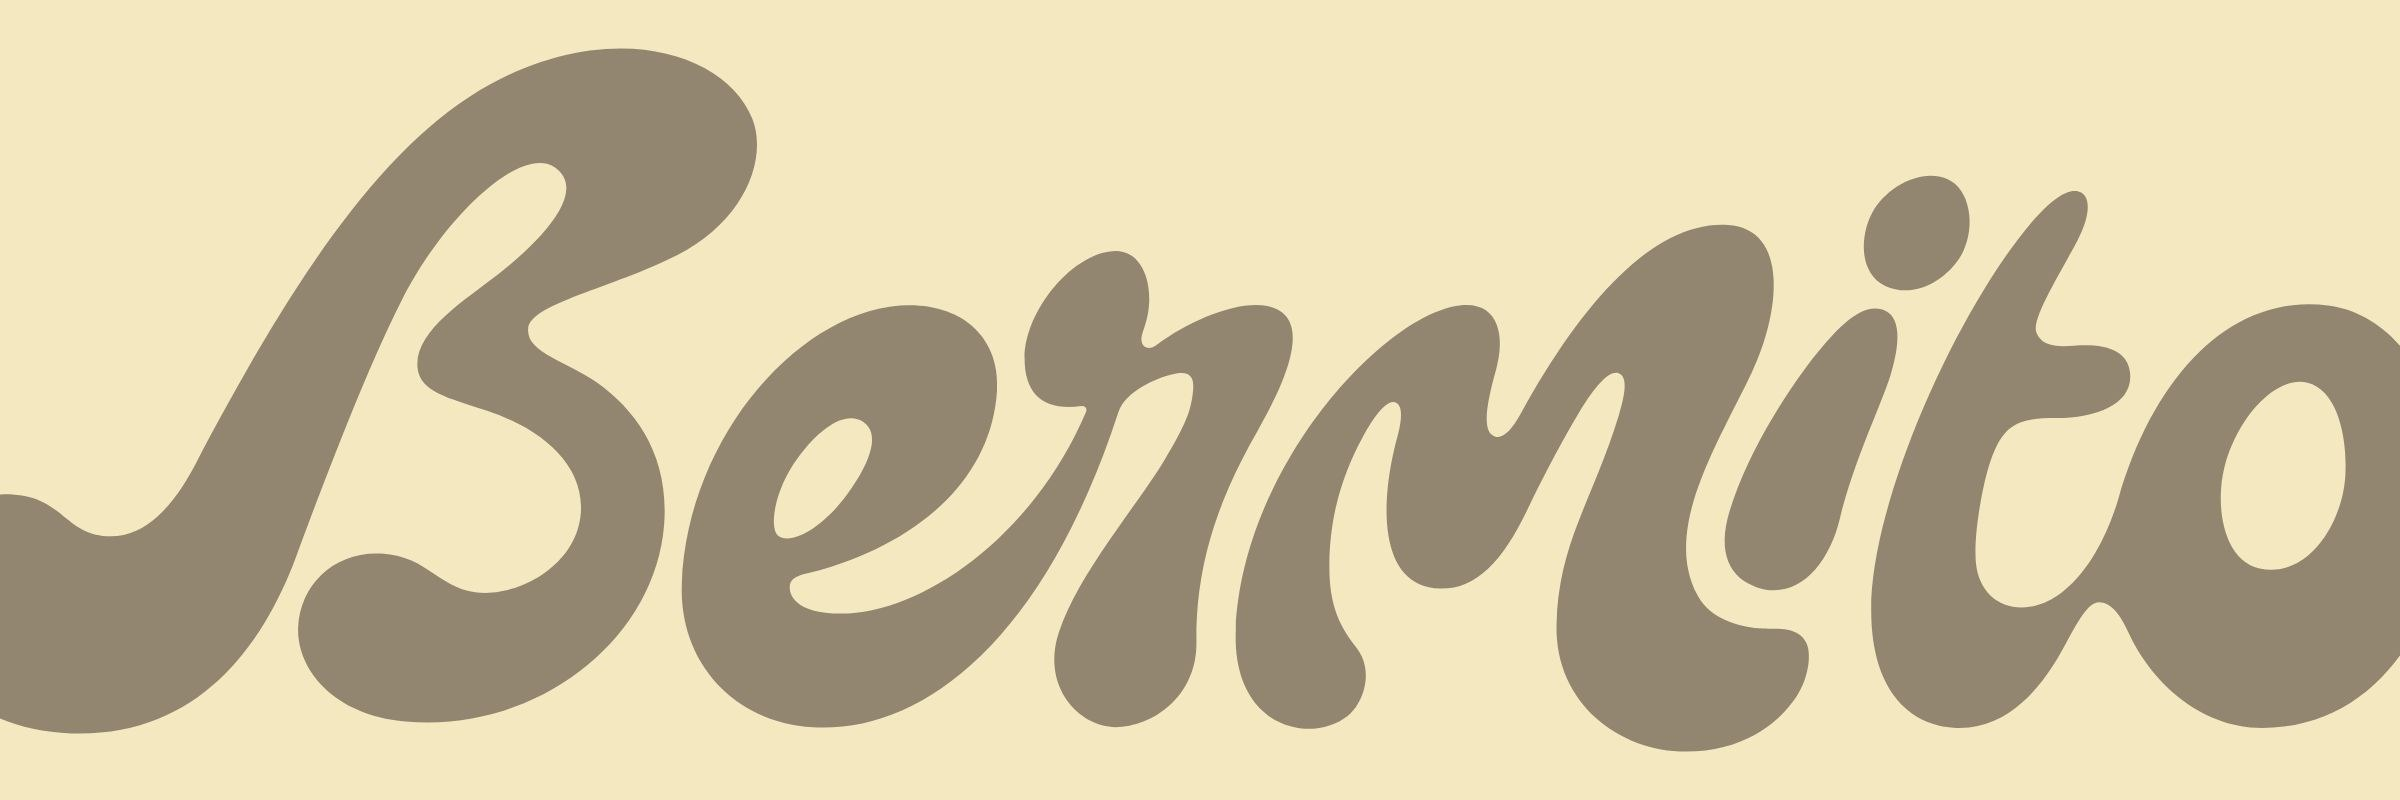
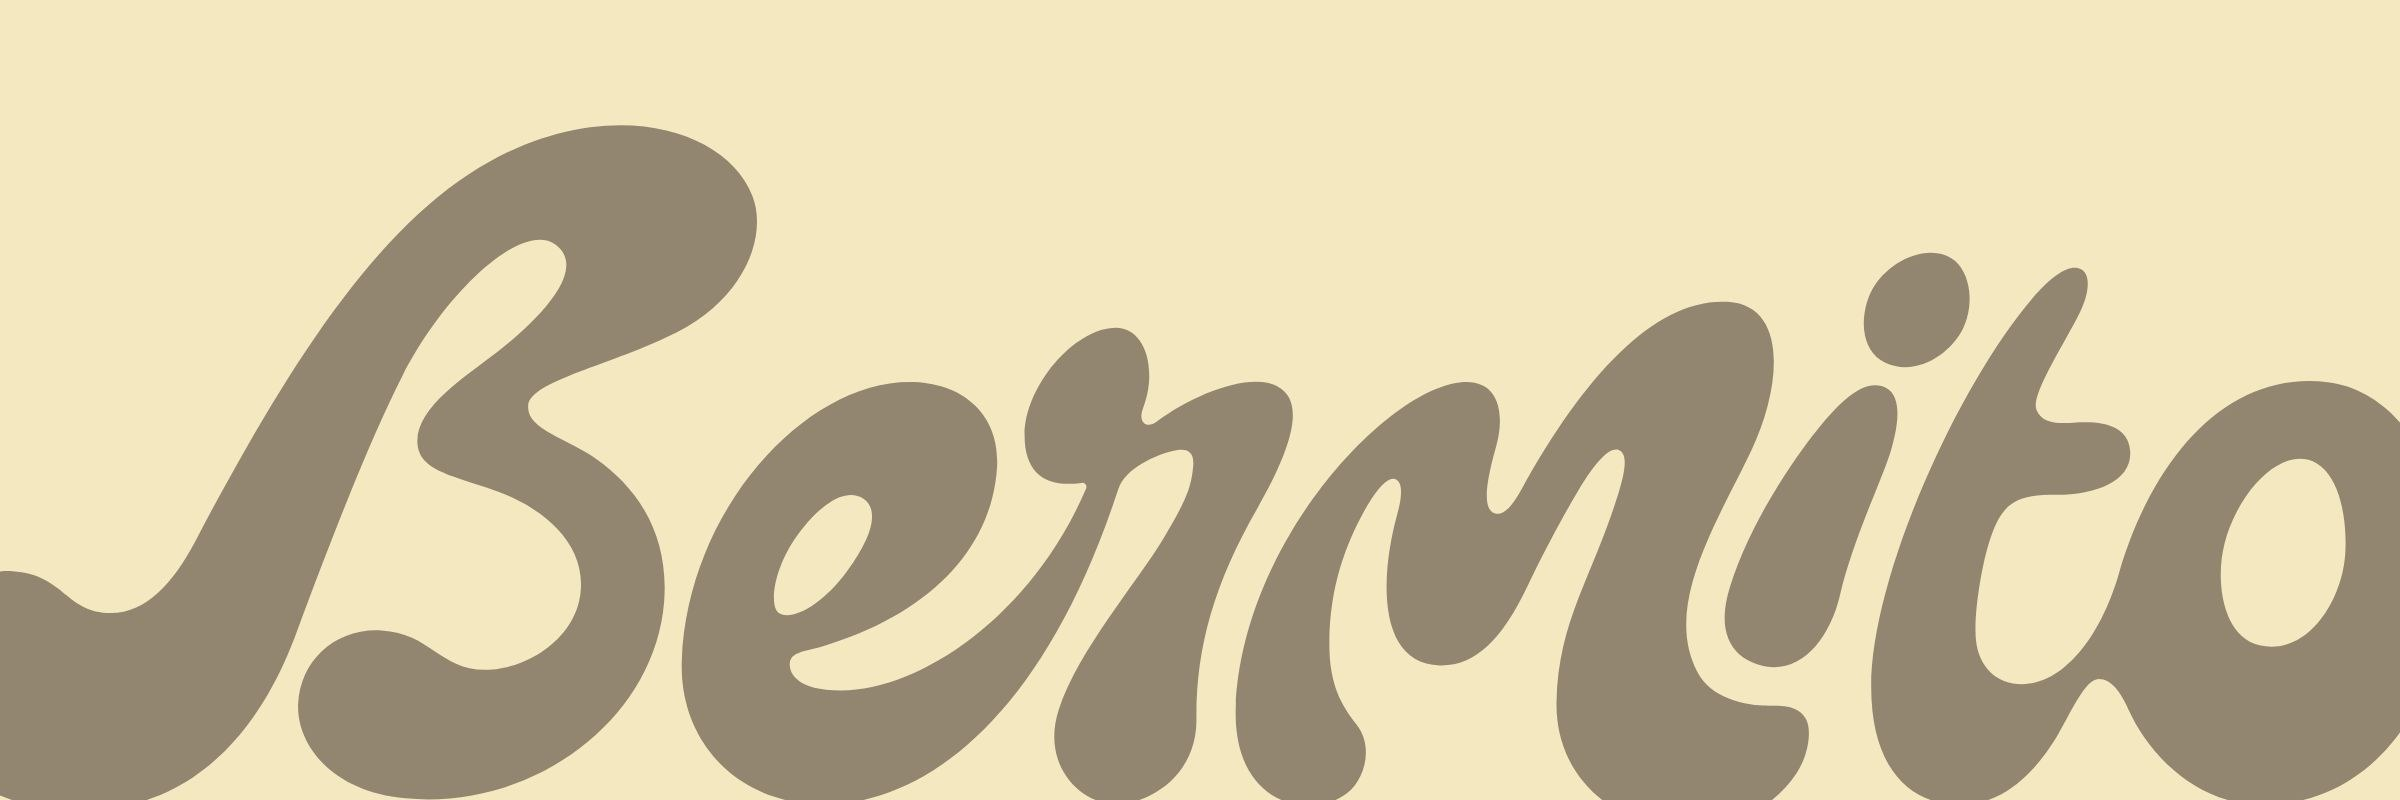
Add files via upload

diff --git a/index.html b/index.html
@@ -541,7 +541,7 @@ html.locked,html.locked body{overflow:hidden}
 .partner{
   position:relative;overflow:hidden;background-color:#F4E8C0;
   border-top:1px solid rgba(25,21,16,.12);
-  aspect-ratio:2400/800;display:flex;align-items:center;padding:0;
+  aspect-ratio:2400/800;display:flex;align-items:flex-start;padding:2.6% 0 0;
 }
 .partner::before{
   content:"";position:absolute;inset:0;z-index:0;pointer-events:none;
@@ -556,18 +556,24 @@ html.locked,html.locked body{overflow:hidden}
 }
 .partner .pname{
   font-family:var(--body);font-weight:700;font-size:clamp(8.5px,.76vw,12px);letter-spacing:.2em;text-transform:uppercase;
-  color:var(--ink);opacity:.82;margin-top:1.05vw;
+  color:var(--ink);opacity:.82;margin-top:.7vw;
 }
+.partner .pname .pig{color:var(--cherry);text-decoration:none;border-bottom:1.5px solid transparent;transition:border-color .2s ease}
+.partner .pname .pig:hover,.partner .pname .pig:focus-visible{border-bottom-color:var(--cherry)}
+.partner .pname .pig:focus-visible{outline:2px solid var(--cherry);outline-offset:3px}
 .partner .pdesc{
-  font-family:var(--serif);font-size:clamp(.83rem,1.02vw,1.1rem);line-height:1.55;color:var(--ink);margin-top:1.05vw;
+  font-family:var(--serif);font-size:clamp(.83rem,1.02vw,1.1rem);line-height:1.55;color:var(--ink);margin-top:.85vw;
 }
 .partner .pcta{
-  display:inline-flex;align-items:center;gap:9px;margin-top:1.6vw;
+  display:inline-flex;align-items:center;gap:9px;margin-top:1.3vw;
   background:var(--turmeric);color:var(--ink);border:2.5px solid var(--ink);box-shadow:5px 5px 0 var(--ink);
   font-family:var(--body);font-weight:700;font-size:clamp(9px,.82vw,12px);letter-spacing:.16em;text-transform:uppercase;
   padding:1vw 1.9vw;text-decoration:none;transition:transform .2s ease,box-shadow .2s ease;
 }
 .partner .pcta:hover{transform:translate(-2px,-2px);box-shadow:7px 7px 0 var(--ink)}
+.partner h2 .ko{color:var(--green)}
+.partner .pname .pig:hover{border-bottom-color:var(--cherry)}
+.partner .pname .pig:focus-visible{outline:2px solid var(--cherry);outline-offset:3px}
 @media(max-width:1100px){
   .partner{aspect-ratio:auto;display:block;padding:56px 0 0}
   .partner::before{
@@ -897,8 +903,8 @@ footer .fgrid a.ig-link svg{width:16px;height:16px;flex:none;display:block}
 <section class="partner" id="roasting-partner" aria-labelledby="partnerH">
   <div class="wrap fx">
     <div class="pbox">
-      <h2 id="partnerH">Official roasting partner of Kerala Origins</h2>
-      <p class="pname">Bermito Coffee Roasters &middot; Kozhikode, Kerala</p>
+      <h2 id="partnerH">Official roasting partner of <span class="ko">Kerala Origins</span></h2>
+      <p class="pname"><a class="pig" href="https://www.instagram.com/bermitoindia/" target="_blank" rel="noopener">Bermito Coffee Roasters</a> &middot; Kozhikode, Kerala</p>
       <p class="pdesc">From sample roast to cupping table, Bermito works alongside Kerala&rsquo;s growers to help every coffee reveal its clearest expression.</p>
       <a class="pcta" href="https://bermito.com" target="_blank" rel="noopener">Visit bermito.com <span aria-hidden="true">&#8599;</span></a>
     </div>
